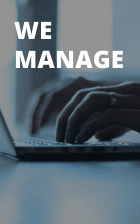
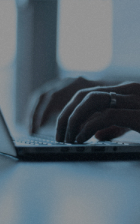
our_story

Changed region(s): [[0.1143, 0.2188, 0.8857, 0.3125], [0.0857, 0.0938, 0.3714, 0.1875]]

diff --git a/css/style.css b/css/style.css
@@ -18,7 +18,7 @@ body {
   padding: 0 250px;
 }
 
-/******************************** Шапка ************************/
+/*********************************************************** Шапка *************************************************************/
 header {
   background-image: url(../img/bg.jpg);
   min-width: 1440px;
@@ -89,8 +89,10 @@ header {
 }
 
 /*********************************************************** Навигация *************************************************************/
+
 .navbar {
   margin-top: 19px;
+  margin-bottom: 76px;
 }
 .menu_inner {
   display: flex;
@@ -136,4 +138,101 @@ header {
 
 .nav li:nth-child(5) a {
   padding-left: 29px;
+}
+
+/*********************************************************** Our Story *************************************************************/
+
+.our_story {
+  margin: 0 auto;
+}
+.story_text {
+  margin: 0 auto;
+}
+.line {
+  width: 50px;
+  height: 2px;
+  background-color: #00a4e5;
+  display: block;
+  margin: 0 auto;
+  margin-bottom: 32px;
+}
+.story_block {
+  display: flex;
+  justify-content: space-between;
+}
+
+.story-h2 {
+  color: #48555b;
+  text-align: center;
+  text-transform: uppercase;
+  font-size: 18px;
+  font-style: normal;
+  font-weight: 700;
+  line-height: normal;
+  letter-spacing: 2.306px;
+  margin: 0 auto;
+  margin-bottom: 10px;
+}
+.story_block_left {
+}
+.story-p-top {
+  color: #48555b;
+  font-size: 20px;
+  font-style: normal;
+  font-weight: 700;
+  line-height: normal;
+  letter-spacing: 0.188px;
+  width: 405.076px;
+  margin-bottom: 32px;
+}
+.story-p-bottom {
+  color: #48555b;
+  font-size: 13px;
+  font-style: normal;
+  font-weight: 400;
+  line-height: 23px; /* 176.923% */
+  letter-spacing: 0.188px;
+  width: 405.076px;
+  margin: 0;
+}
+.Konstruct {
+  color: #00a4e5;
+}
+
+.story_block_right {
+  display: flex;
+  justify-content: space-between;
+  align-items: flex-end;
+  gap: 20px;
+}
+.h2-story_block_right {
+  color: #fff;
+  font-size: 24px;
+  font-style: normal;
+  font-weight: 800;
+  line-height: 29px; /* 120.833% */
+  letter-spacing: 0.188px;
+  text-transform: uppercase;
+  width: 140px;
+  height: 224px;
+  margin: 0;
+}
+
+.story_block_right h2:first-child {
+  background-image: url(../img/plan.jpg);
+  padding-top: 16px;
+  padding-left: 16px;
+  padding-right: 12px;
+}
+.story_block_right h2:nth-child(2) {
+  background-image: url(../img/manage.jpg);
+  padding-top: 16px;
+  padding-left: 16px;
+  padding-right: 12px;
+}
+.story_block_right h2:nth-child(3) {
+  background-image: url(../img/Bitmap.jpg);
+  padding-top: 16px;
+  padding-left: 14px;
+  padding-right: 12px;
 }

diff --git a/index.html b/index.html
@@ -31,7 +31,7 @@
         </div>
       </div>
     </header>
-
+    <!------------------------------------------------------------ Навигация ------------------------------------------------------------------>
     <section class="navbar">
       <div class="container">
         <div class="menu_inner">
@@ -46,6 +46,38 @@
             <li><a href="#">work</a></li>
             <li><a href="#">contact</a></li>
           </ul>
+        </div>
+      </div>
+    </section>
+
+    <!------------------------------------------------------------ Story ------------------------------------------------------------------>
+
+    <section class="our_story">
+      <div class="container">
+        <div class="story_text">
+          <h2 class="story-h2">Our Story</h2>
+          <span class="line"></span>
+        </div>
+        <div class="story_block">
+          <div class="story_block_left">
+            <p class="story-p-top">
+              Founded in 2011 by John Mathew Smith,
+              <span class="Konstruct">Konstruct</span> has become the number one
+              construction management firm
+            </p>
+            <p class="story-p-bottom">
+              Lorem ipsum dolor sit amet, consectetuer adipiscing elit, sed diam
+              nonummy nibh euismod tincidunt ut laoreet dolore magna aliquam
+              erat. Lorem ipsum dolor sit amet, consectetuer adipiscing elit,
+              sed diam nonummy nibh euismod tincidunt ut laoreet dolore magna
+              aliquam erat.
+            </p>
+          </div>
+          <div class="story_block_right">
+            <h2 class="h2-story_block_right">We plan</h2>
+            <h2 class="h2-story_block_right">We manage</h2>
+            <h2 class="h2-story_block_right">We build</h2>
+          </div>
         </div>
       </div>
     </section>
